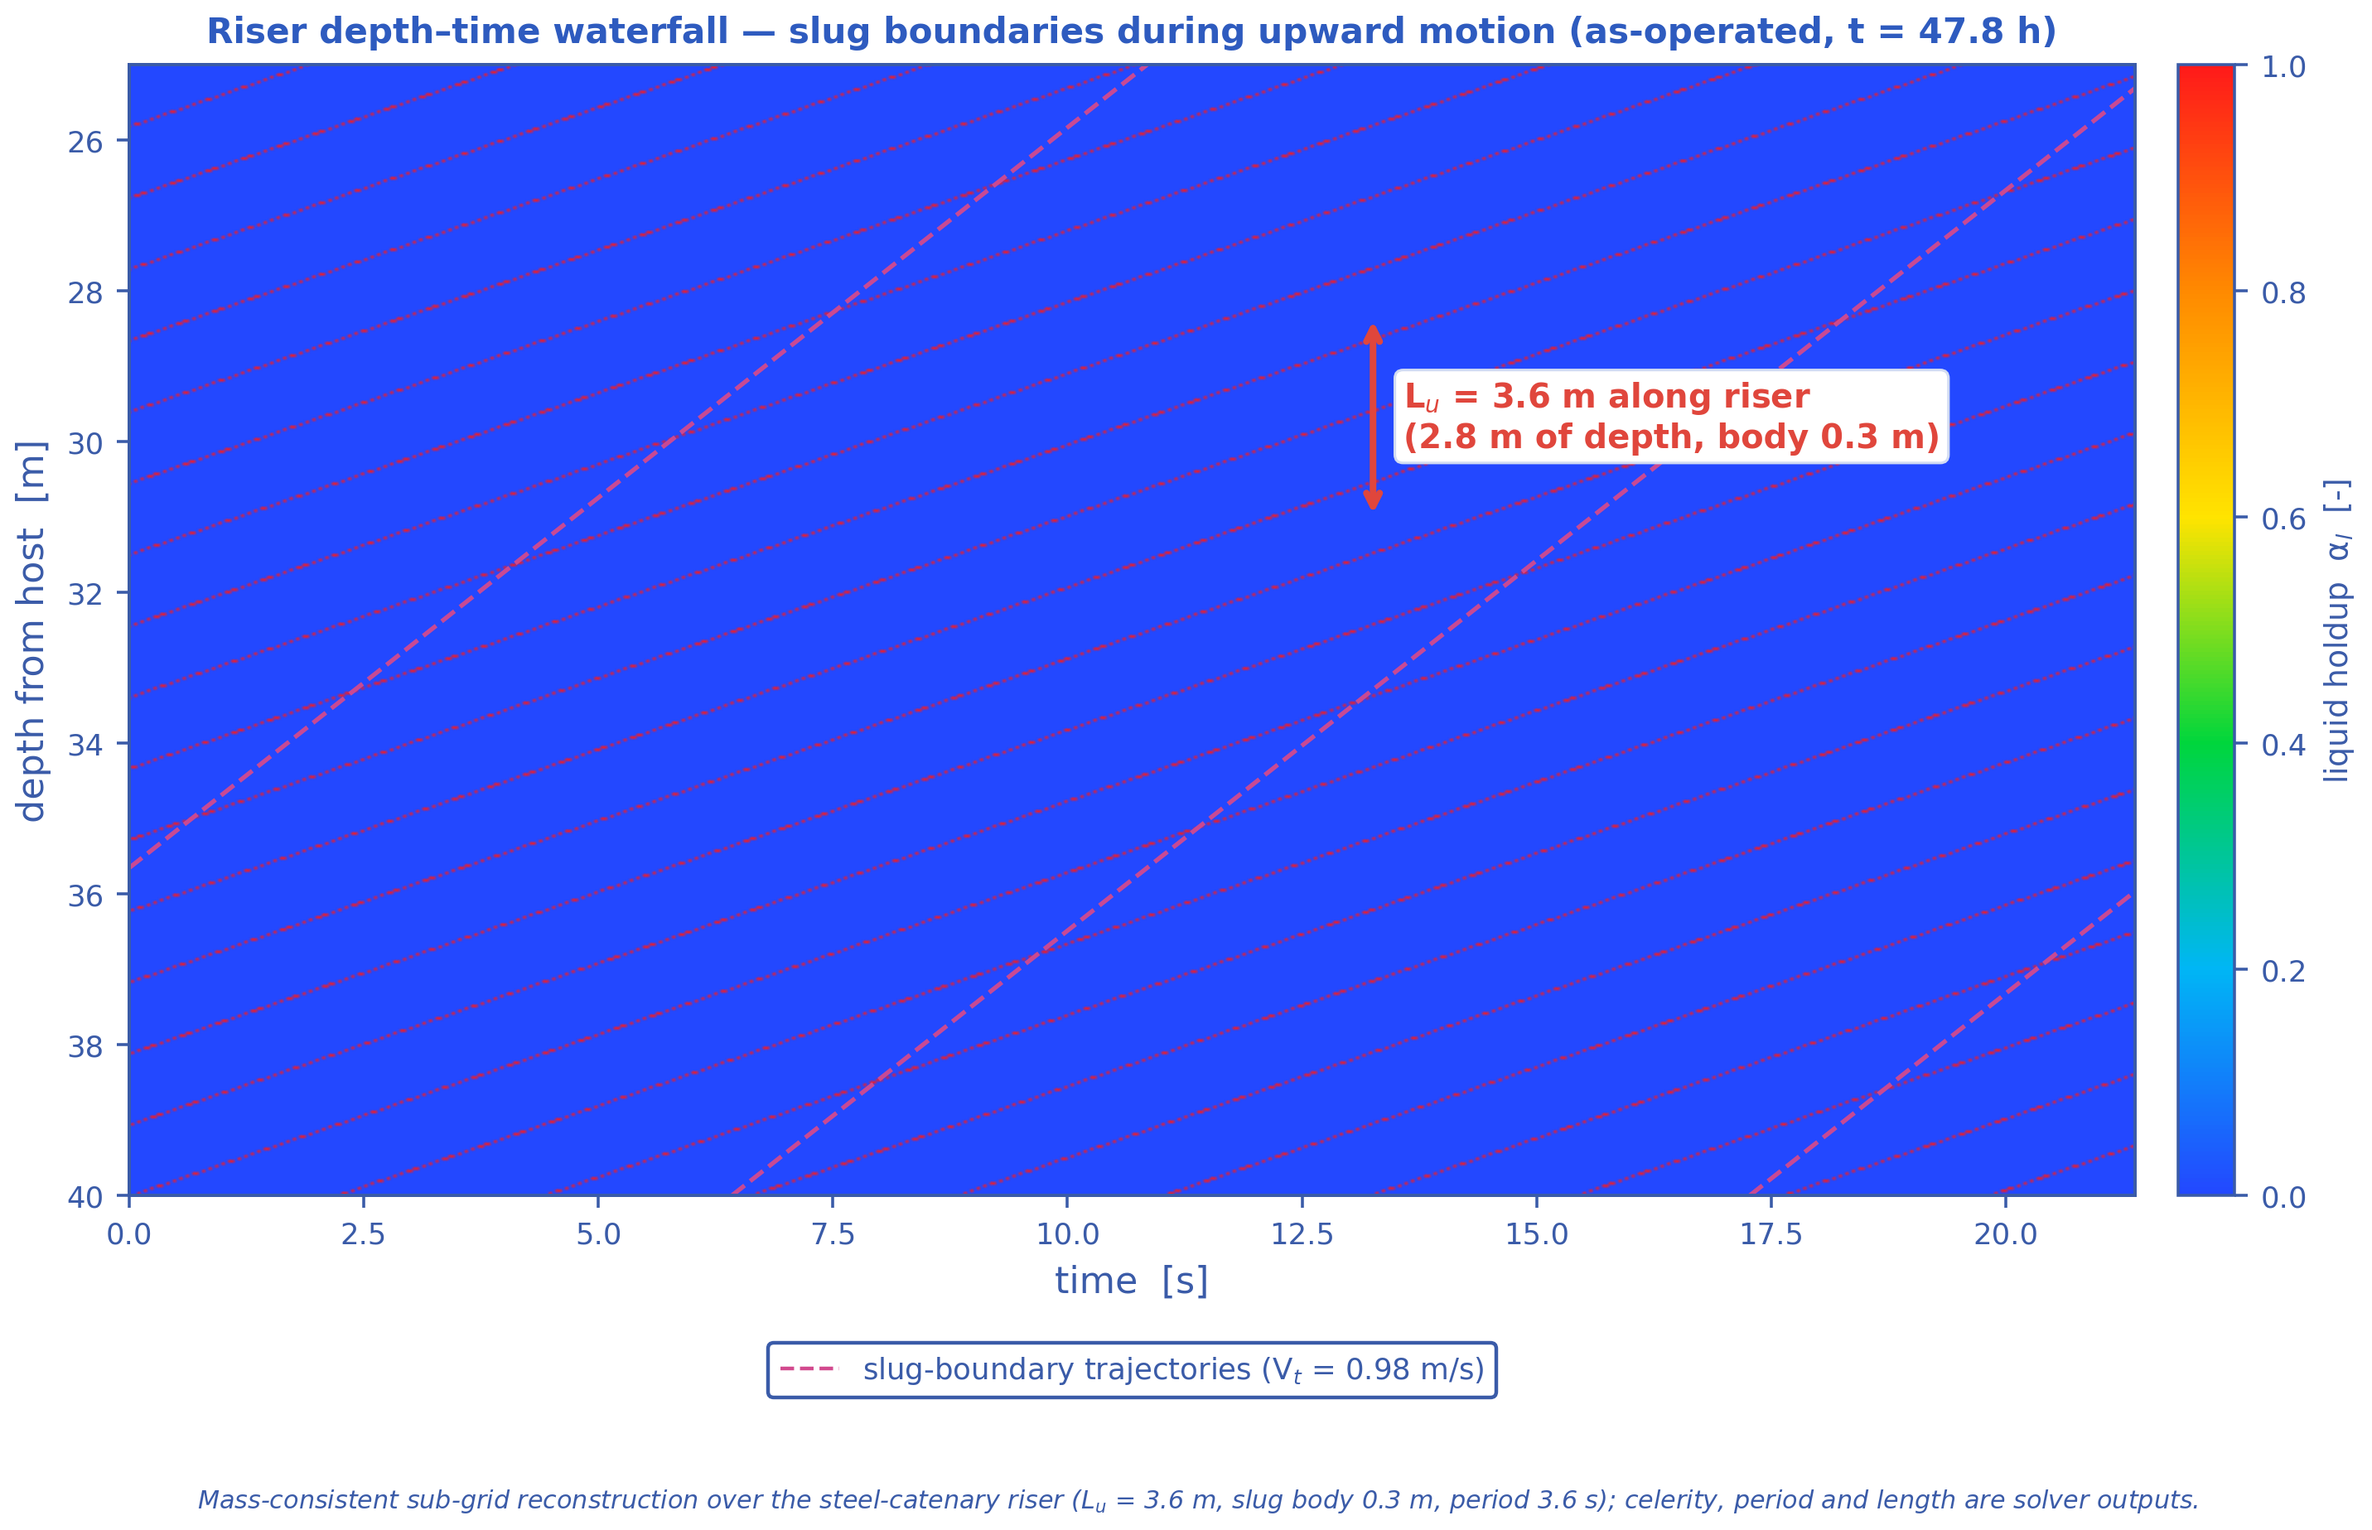
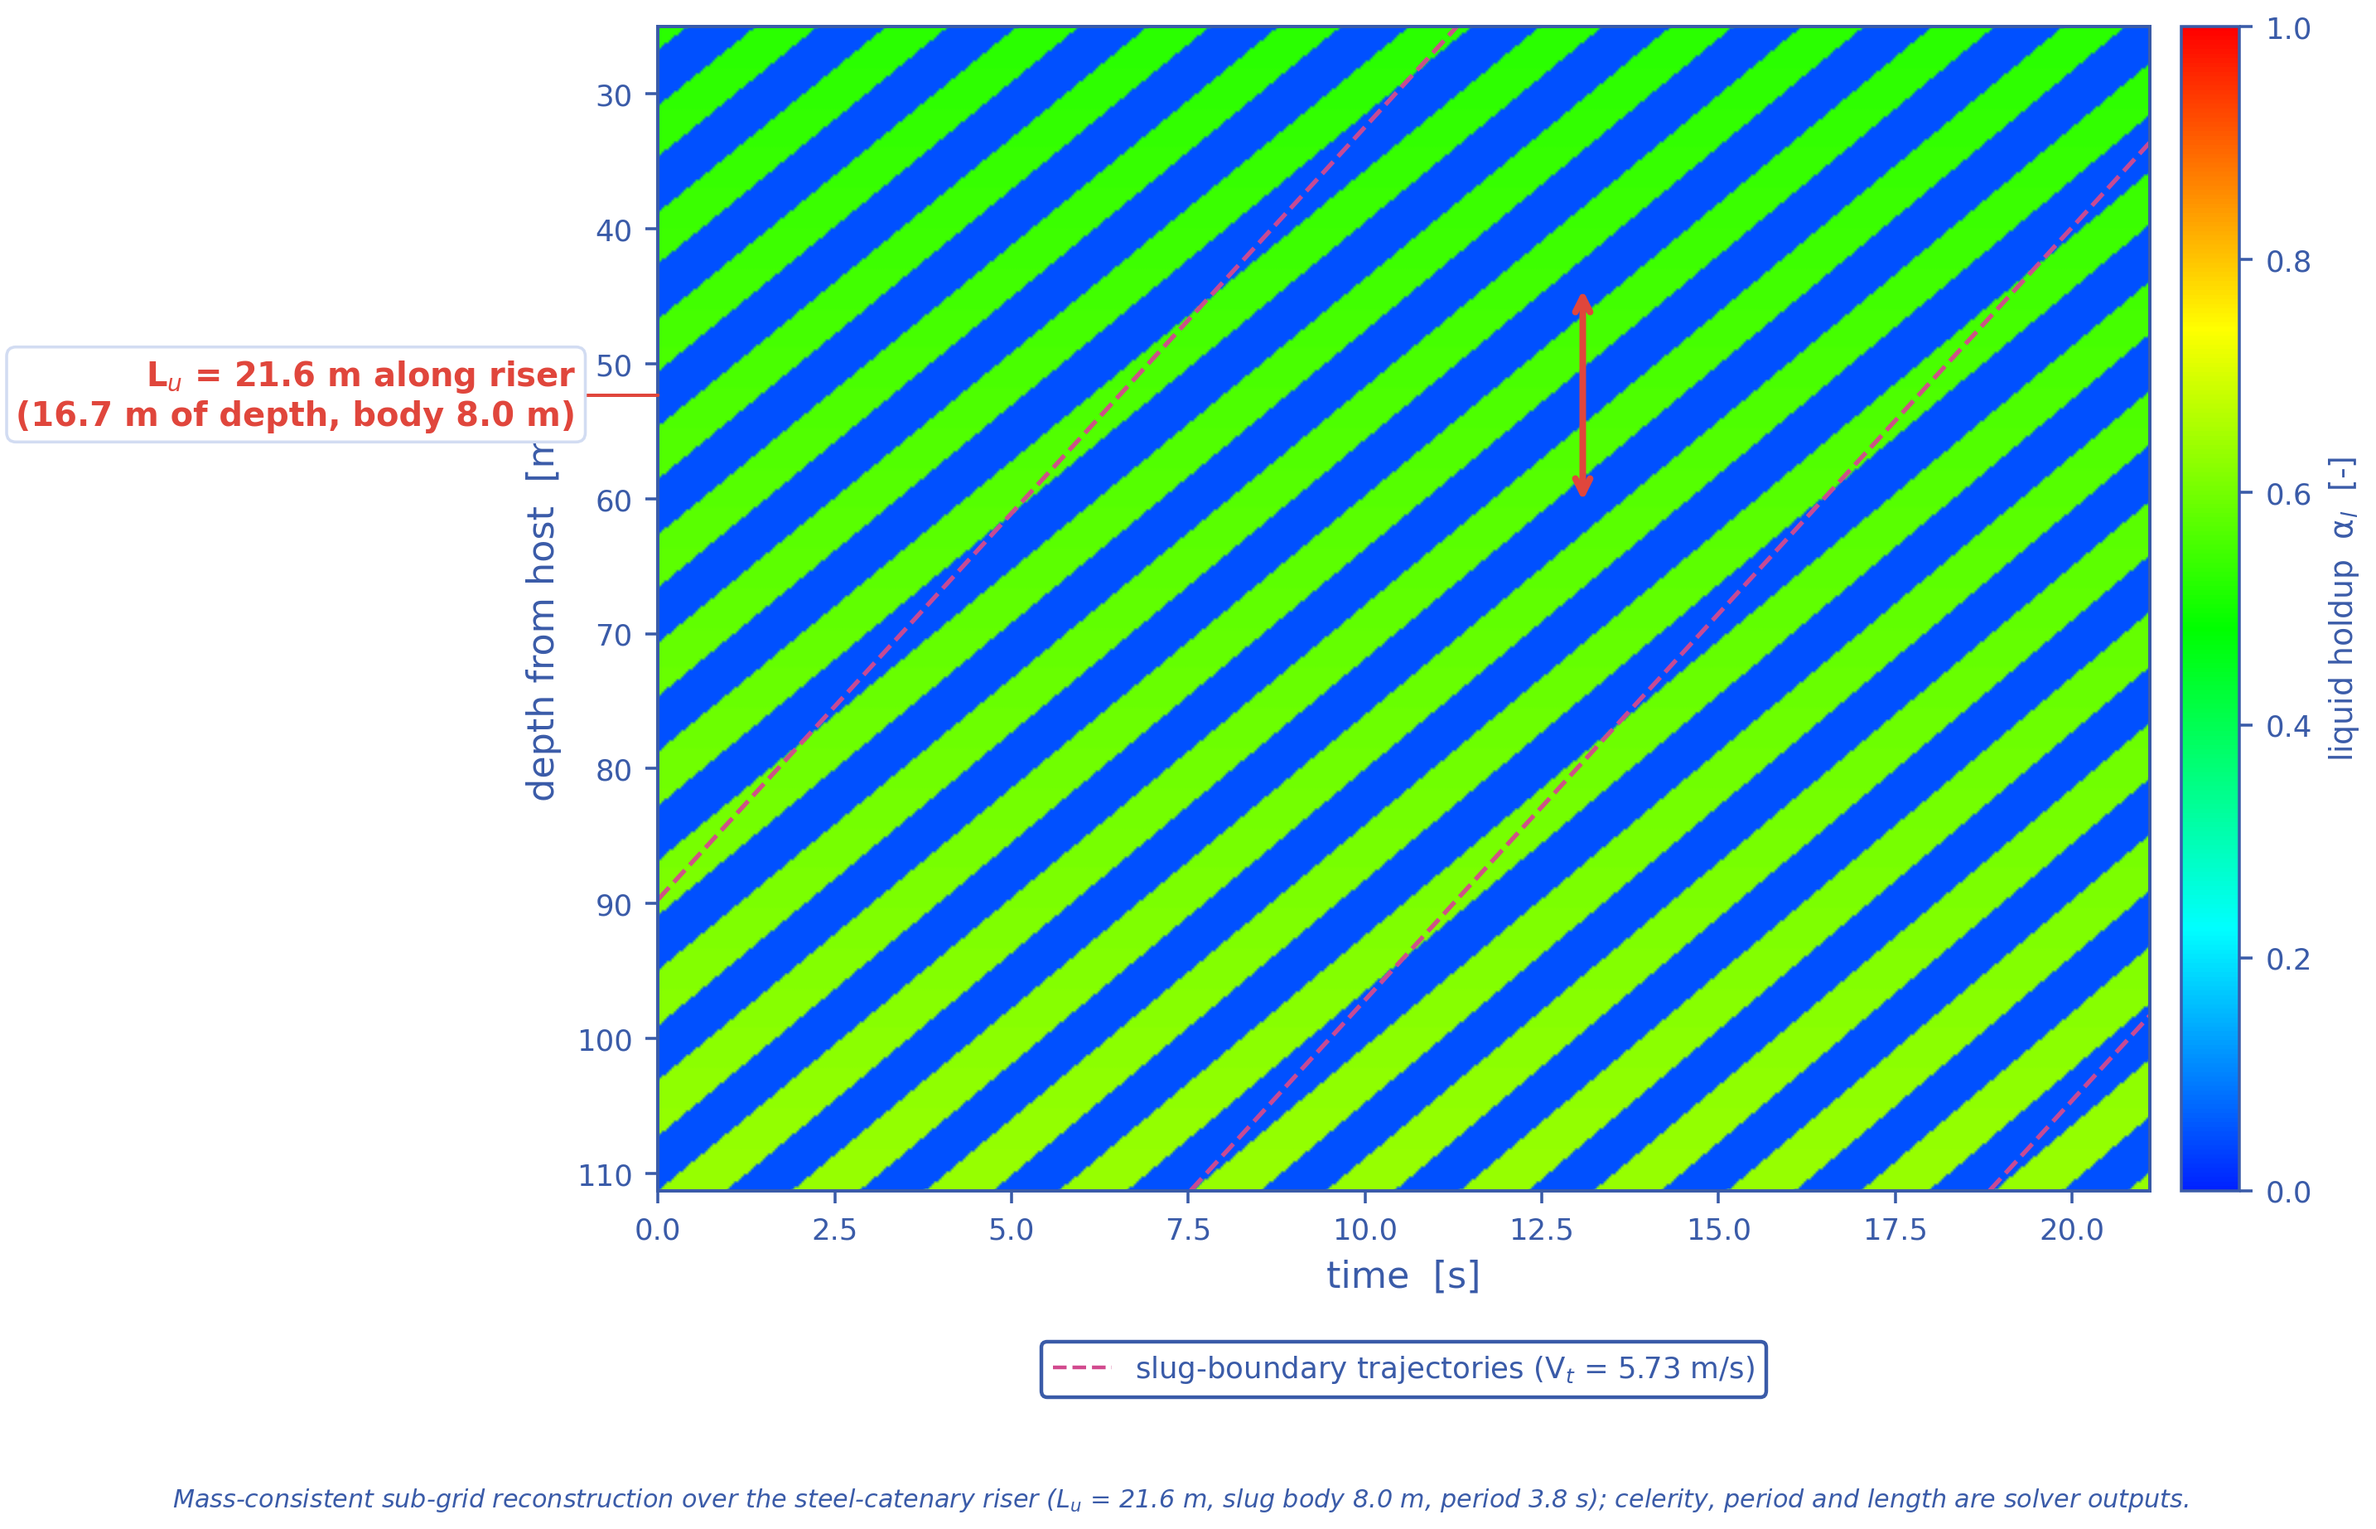
Catch stale artwork mechanically, and let the riser figure be drawn
Three things, all found by the same question: is this artefact actually current?

FRESHNESS. check_journal_artwork verified resolution, width, colour mode and
numbering, and passed a figure set that was hours out of date, because none of
those say which run produced a PNG. outputs_paper_* had been rebuilt while the
numbered Figure_N set assembled from it had not, so the artwork was current in
appearance and stale in content. Modification times along the chain that
produced the file do say it -- solver.py -> outputs_<scenario>/ ->
outputs_paper_<scenario>/ -> Figure_N -- so a figure older than any of its
upstreams is now reported. It is a proxy and touching a file defeats it, but the
mistake it catches is forgetting a step in a multi-stage rebuild, not cheating.

It earned itself immediately: it flagged Figure_18 and Figure_23 as stale, both
of which had survived every other check.

THE RISER FIGURE. Figure_23 could not simply be regenerated. _slug_snapshot()
scores x < 0.90*x[-1] -- the flowline, deliberately excluding the riser -- and
fig_riser_depth_time then asked whether the RISER had a travelling slug train at
that flowline-chosen instant. Two different questions: the riser was being
rejected for a state it had never been asked about, and a figure from an older
run stayed on disk and kept being exported in its place. The figure now chooses
its own snapshot by riser activity, falling back to the flowline choice so a
[…]

diff --git a/case/scripts/check_journal_artwork.py b/case/scripts/check_journal_artwork.py
@@ -19,6 +19,21 @@
 #    * naming       — Figure_1 ... Figure_N, numbered in citation order with no
 #                     gaps, so the artwork items map onto the captions
 #    * file size    — flagged over 10 MB, which the submission system throttles
+#    * FRESHNESS    — every figure must be newer than what it was made from
+#
+#  The freshness check exists because the others cannot catch the worst failure.
+#  A figure is spec-perfect at 320 dpi and correctly sized while showing results
+#  from a solver revision that no longer exists, and this script passed exactly
+#  that set for hours: outputs_paper_*/ had been rebuilt, but the numbered
+#  Figure_N set assembled FROM it had not, so the artwork was current in
+#  appearance and stale in content. Nothing about a PNG says which run produced
+#  it. Modification times do, along the chain that actually produced the file:
+#
+#      solver.py -> outputs_<scenario>/ -> outputs_paper_<scenario>/ -> Figure_N
+#
+#  so a figure older than any of its upstreams is reported as stale. It is a
+#  proxy -- touching a file defeats it -- but it catches the real mistake, which
+#  is forgetting a step in a multi-stage rebuild rather than trying to cheat.
 #
 #  Exit status is 1 if any figure fails, so it can gate a submission pack build.
 # =============================================================================
@@ -29,6 +44,10 @@ try:
     from PIL import Image
 except Exception:                                          # pragma: no cover
     Image = None
+
+#  Where this file sits, so the upstream chain can be located when the checker is
+#  pointed at a copy of the figures somewhere else (e.g. the submission folder).
+_HERE = os.path.dirname(os.path.abspath(__file__))
 
 MIN_DPI = 300
 MIN_WIDTH_PX = 1063          # 90 mm single column at 300 dpi
@@ -73,6 +92,67 @@ def check_one(path):
     return fails, notes
 
 
+def _mtime(path):
+    try:
+        return os.path.getmtime(path)
+    except OSError:
+        return None
+
+
+def freshness(nums, figdir):
+    """Report figures older than the artefacts they were generated from.
+
+    Returns (failures, skipped_reason). A missing upstream is NOT a failure --
+    the checker must still be usable against a bare directory of figures -- it
+    simply means freshness cannot be judged, and that is said out loud rather
+    than passing silently.
+    """
+    sys.path.insert(0, _HERE)
+    try:
+        from export_paper_figures import FIGURE_MAP
+        from _paths import CASE
+    except Exception as exc:
+        return [], f"upstream sources not importable ({type(exc).__name__})"
+
+    solver_py = os.path.join(os.path.dirname(CASE), "solver.py")
+    t_solver = _mtime(solver_py)
+    fails = []
+
+    for num, primary, fallback in FIGURE_MAP:
+        if num not in nums:
+            continue
+        fig = os.path.join(figdir, f"Figure_{num}.png")
+        t_fig = _mtime(fig)
+        if t_fig is None:
+            continue
+        src = next((os.path.join(CASE, rel) for rel in (primary, fallback)
+                    if rel and os.path.exists(os.path.join(CASE, rel))), None)
+        if src is None:
+            continue
+        #  the figure must be at least as new as the intermediate it was copied from
+        t_src = _mtime(src)
+        if t_src is not None and t_fig < t_src - 1.0:
+            fails.append((num, f"older than its source {os.path.relpath(src, CASE)} "
+                               f"by {(t_src - t_fig) / 60.0:.0f} min — rerun "
+                               f"export_paper_figures.py"))
+            continue
+        #  and the intermediate must be at least as new as the scenario data it
+        #  was drawn from, or the whole branch is stale however fresh the copy is
+        scen = os.path.basename(os.path.dirname(src)).replace("outputs_paper_", "outputs_")
+        summary = os.path.join(CASE, scen, "summary.json")
+        t_sum = _mtime(summary)
+        if t_sum is not None and t_src < t_sum - 1.0:
+            fails.append((num, f"source {os.path.relpath(src, CASE)} predates "
+                               f"{scen}/summary.json by {(t_sum - t_src) / 60.0:.0f} min "
+                               f"— rerun make_paper_figures.py"))
+            continue
+        if t_solver is not None and t_fig < t_solver - 1.0:
+            fails.append((num, f"older than solver.py by "
+                               f"{(t_solver - t_fig) / 60.0:.0f} min — the code changed "
+                               f"after this figure was made"))
+    return fails, None
+
+
 def main(argv):
     figdir = argv[0] if argv else \
         "/mnt/c/Users/user/Desktop/paperinfo-slugs_hydrates/figures"
@@ -112,6 +192,19 @@ def main(argv):
         for f in fails:
             print(f"           - {f}")
             n_fail += 1
+
+    stale, skipped = freshness(nums, figdir)
+    print()
+    if skipped:
+        print(f"  [NOTE] freshness not checked — {skipped}")
+    elif stale:
+        print(f"  [FAIL] {len(stale)} figure(s) are STALE — they meet the artwork "
+              f"specification but do not show the current results:")
+        for num, why in stale:
+            print(f"           Figure_{num}: {why}")
+        n_fail += len(stale)
+    else:
+        print("  [ok  ] every figure is newer than the artefacts it was generated from")
 
     print()
     if n_fail or gaps:

diff --git a/shct_spacetime.py b/shct_spacetime.py
@@ -319,6 +319,33 @@ def _slug_snapshot(sv):
     return int(good[-1]) if good.size else int(np.nanargmax(score))
 
 
+def _riser_slug_snapshot(sv, i0):
+    """The snapshot at which the RISER is most actively slugging, or None.
+
+    _slug_snapshot() scores `x < 0.90 * x[-1]` — the flowline, deliberately
+    excluding the riser — which is right for the flowline figures and wrong for
+    this one. Choosing the instant by flowline activity and then asking whether
+    the riser has a slug train at that same instant conflates two different
+    questions, and the riser figure was being rejected for a state it had never
+    been asked about. Score the riser on its own terms instead.
+    """
+    r = sv.results
+    reg = np.asarray(r.get("snap_regime", np.empty(0)), float)
+    fs = np.asarray(r.get("snap_fslug", np.empty(0)), float)
+    al = np.asarray(r.get("snap_holdup", np.empty(0)), float)
+    j = np.asarray(r.get("snap_j", np.empty(0)), float)
+    if any(a.ndim != 2 or a.size == 0 for a in (reg, fs, al, j)):
+        return None
+    riser = np.zeros(np.asarray(sv.x, float).size, bool)
+    riser[i0:] = True
+    inter = np.isin(np.round(reg), [2, 5]) & (j > 0.05) & riser[None, :]
+    score = np.where(inter, fs * al, 0.0).sum(axis=1)
+    if not np.isfinite(score).any() or float(np.nanmax(score)) <= 0.0:
+        return None
+    good = np.where(score >= 0.8 * float(np.nanmax(score)))[0]
+    return int(good[-1]) if good.size else int(np.nanargmax(score))
+
+
 def _slug_train_ok(sv, F, ic):
     """Is a resolved slug train physically meaningful at this cell?"""
     route = float(np.asarray(sv.x, float)[-1])
@@ -1028,19 +1055,25 @@ def fig_holdup_durations(sv, outdir):
 def fig_riser_depth_time(sv, outdir):
     """Depth-time waterfall over the steel-catenary riser, with the slug-boundary
     trajectories and the slug length annotated — the published waterfall scheme."""
-    k = _slug_snapshot(sv)
-    if k is None:
-        print("    [space-time] 21_riser_depth_time skipped: the line never reaches "
-              "an intermittent, flowing state in this scenario", flush=True)
-        return None
-    F = slug_unit_fields(sv, k_snap=k)
-    t_snap = float(np.asarray(sv.results["snap_t"], float)[k])
     x = np.asarray(sv.x, float)
     z = np.asarray(sv.z, float)
 
     climb = (np.gradient(z, x) > 0.02) & (x > 0.8 * x[-1])
     i0 = int(np.argmax(climb)) if climb.any() else int(0.94 * (x.size - 1))
     i0 = int(np.clip(i0, 1, x.size - 4))
+
+    #  Choose the instant by what the RISER is doing, not the flowline — see
+    #  _riser_slug_snapshot. Fall back to the flowline choice so a scenario whose
+    #  riser never slugs still reports through the guard below rather than here.
+    k = _riser_slug_snapshot(sv, i0)
+    if k is None:
+        k = _slug_snapshot(sv)
+    if k is None:
+        print("    [space-time] 21_riser_depth_time skipped: the line never reaches "
+              "an intermittent, flowing state in this scenario", flush=True)
+        return None
+    F = slug_unit_fields(sv, k_snap=k)
+    t_snap = float(np.asarray(sv.results["snap_t"], float)[k])
 
     Lu_c = float(np.mean(F["Lu"][i0:]))
     Vt_c = float(np.mean(F["Vt"][i0:]))
